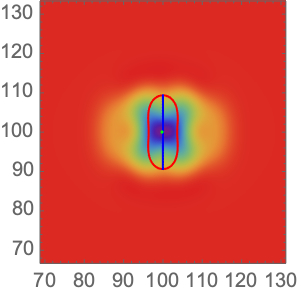
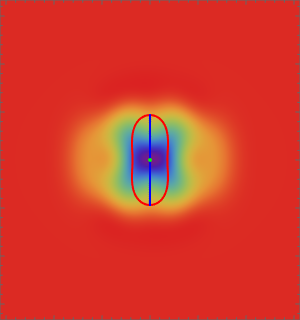
residue plots

diff --git a/2D Caustic Skeleton II.tex b/2D Caustic Skeleton II.tex
@@ -1078,7 +1078,7 @@ By definition, the residue $\delta f$ vanishes at the point where we impose the 
 \end{subfigure}
 \begin{subfigure}[b]{0.24\textwidth}
 \includegraphics[width=\textwidth]{Hyperbolic_mean_delta}
-\end{subfigure}\\ \vspace{-0.5\baselineskip}
+\end{subfigure}\\ \vspace{0.2\baselineskip}
 \begin{subfigure}[b]{0.24\textwidth}
 \includegraphics[width=\textwidth]{Cusp_mean_delta_var}
 \end{subfigure}
@@ -1091,7 +1091,7 @@ By definition, the residue $\delta f$ vanishes at the point where we impose the 
 \begin{subfigure}[b]{0.24\textwidth}
 \includegraphics[width=\textwidth]{Hyperbolic_mean_delta_var}
 \end{subfigure}
-\caption{Mean and the variance of the density field around the caustics. \textit{Left to right:} the cusp, the swallowtail, the elliptic umbilic, and the hyperbolic umbilic caustic. \textit{Top:} the mean density field. \textit{Bottom:} the variance of the density field.}\label{fig:mean_var_dens}
+\caption{Mean and the variance of the density field around the caustics in a $[70\text{ Mpc},130 \text{ Mpc}]^2$ box. \textit{Left to right:} the cusp, the swallowtail, the elliptic umbilic, and the hyperbolic umbilic caustic. \textit{Top:} the mean density field. \textit{Bottom:} the variance of the density field.}\label{fig:mean_var_dens}
 \end{figure}
 
 %%%%%%%%%%%%%%%%%%%%%%%%%%%%%%%%%%%%%%%%%%%%%%%%%%%%%%%%%%%%%%%%
